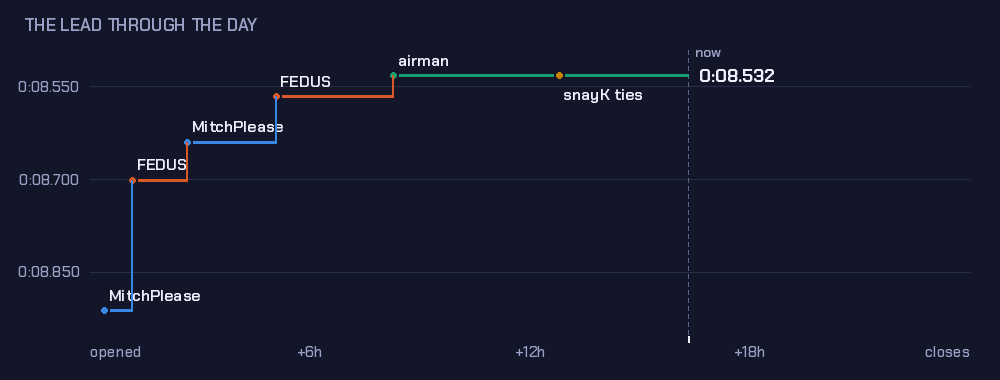
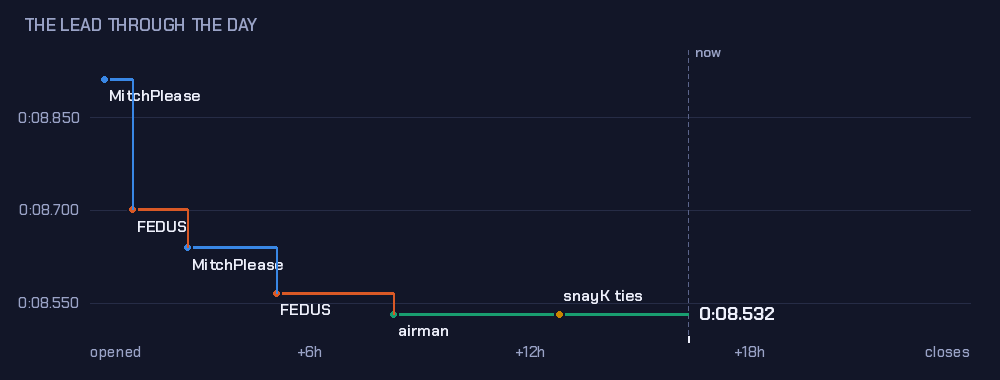
prototype: the settled design, live and closed

diff --git a/discord-bot/scripts/proto-daily/post.ts b/discord-bot/scripts/proto-daily/post.ts
@@ -321,6 +321,44 @@ if (process.argv.includes("--round4")) {
   process.exit(0);
 }
 
+// Round 4 verdict: graph A with faster times lower; backfill the last 3 Dailies at launch.
+if (process.argv.includes("--final")) {
+  await say("**══ THE DESIGN: the live card, its thread, then the same Daily once it closes ══**");
+  const m = (await rest.post(Routes.channelMessages(channel), {
+    body: { ...withGraph("graph-A.png", "podium"), allowed_mentions: NO_PINGS },
+    files: [file("preview.jpg"), file("spin.gif"), file("graph-A.png")],
+  })) as { id: string };
+  const th = (await rest.post(Routes.threads(channel, m.id), {
+    body: { name: threadName, auto_archive_duration: 1440 },
+  })) as { id: string };
+  await say(`-# <t:1792286640:t> · 🏁 **MitchPlease** sets the first time: **0:08.912**`, th.id);
+  await say(
+    `-# <t:1792289400:t> · 🏁 **FEDUS** takes the lead from **MitchPlease**, who held it for 46m · 0:08.912 → **0:08.701** (−0.211 s)`,
+    th.id,
+  );
+  await say(
+    `-# <t:1792304700:t> · 🏁 **FEDUS** takes the lead from **MitchPlease**, who held it for 2h 25m · 0:08.640 → **0:08.566** (−0.074 s)`,
+    th.id,
+  );
+  await say(
+    `-# <t:1792315020:t> · 🏁 **airman** takes the lead from **FEDUS**, who held it for 3h 12m · 0:08.566 → **0:08.532** (−0.034 s)`,
+    th.id,
+  );
+  await say(`-# <t:1792331280:t> · 🤝 **snayK** ties **airman** for the lead: **0:08.532**`, th.id);
+  const closed = structuredClone(closedVariants[1]![1]) as {
+    components: { components: object[] }[];
+  };
+  closed.components[0]!.components.splice(3, 0, {
+    type: 12,
+    items: [{ media: { url: "attachment://graph-A.png" } }],
+  });
+  await rest.post(Routes.channelMessages(channel), {
+    body: { ...closed, allowed_mentions: NO_PINGS },
+    files: [file("preview.jpg"), file("spin.gif"), file("graph-A.png")],
+  });
+  process.exit(0);
+}
+
 const keys = process.argv.slice(2).filter((a) => !a.startsWith("--"));
 for (const k of keys.length ? keys : Object.keys(V)) {
   const v = V[k]!;

diff --git a/discord-bot/scripts/proto-daily/graphs.py b/discord-bot/scripts/proto-daily/graphs.py
@@ -21,7 +21,7 @@ fmt = lambda t: f"0:0{t:.3f}"
 def frame(w, hgt, l=90, r=30, t=30, b=46, y0=8.50, y1=8.95, yticks=(8.55, 8.70, 8.85)):
     im = Image.new("RGB", (w, hgt), BG); d = ImageDraw.Draw(im)
     X = lambda x: l + x / 24 * (w - l - r)
-    Y = lambda y: t + (y - y0) / (y1 - y0) * (hgt - t - b)  # faster is higher
+    Y = lambda y: hgt - b - (y - y0) / (y1 - y0) * (hgt - t - b)  # round 4 verdict: faster is lower
     for y in yticks:
         d.line([(l, Y(y)), (w - r, Y(y))], fill=GRID, width=1)
         d.text((l - 10, Y(y)), fmt(y), font=font("ChakraPetch-Medium.ttf", 15), fill=DIM, anchor="rm")
@@ -50,12 +50,12 @@ def A():
         c = COL[who]
         d.line([(X(x), Y(t)), (X(nx), Y(t))], fill=c, width=3)
         d.ellipse([X(x) - 5, Y(t) - 5, X(x) + 5, Y(t) + 5], fill=c, outline=BG, width=2)
-        d.text((X(x) + 4, Y(t) - 10), who, font=font("ChakraPetch-SemiBold.ttf", 16), fill=TEXT, anchor="lb")
+        d.text((X(x) + 4, Y(t) + 22), who, font=font("ChakraPetch-SemiBold.ttf", 16), fill=TEXT, anchor="lb")
     for i, (x, who, t) in enumerate(LEAD[1:], 1):
         d.line([(X(x), Y(LEAD[i - 1][2])), (X(x), Y(t))], fill=COL[LEAD[i - 1][1]], width=2)
     x, who = TIE
     d.ellipse([X(x) - 5, Y(8.532) - 5, X(x) + 5, Y(8.532) + 5], fill=COL[who], outline=BG, width=2)
-    d.text((X(x) + 4, Y(8.532) + 12), "snayK ties", font=font("ChakraPetch-SemiBold.ttf", 16), fill=TEXT, anchor="lt")
+    d.text((X(x) + 4, Y(8.532) - 10), "snayK ties", font=font("ChakraPetch-SemiBold.ttf", 16), fill=TEXT, anchor="lb")
     d.text((X(NOW) + 10, Y(8.532)), "0:08.532", font=font("ChakraPetch-Bold.ttf", 18), fill=TEXT, anchor="lm")
     return im
 
